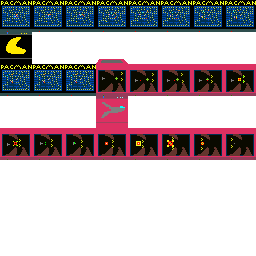
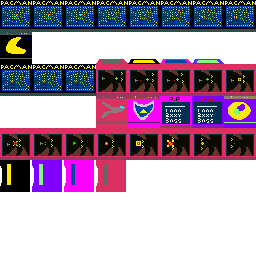
update arcade + trash

Changed region(s): [[0.5, 0.375, 1.0, 0.5], [0.0, 0.625, 0.5, 0.75], [0.5, 0.2188, 0.875, 0.25]]

diff --git a/tilesets/allcreatureswelcome_neon.tsx b/tilesets/allcreatureswelcome_neon.tsx
@@ -1,4 +1,16 @@
 <?xml version="1.0" encoding="UTF-8"?>
-<tileset version="1.4" tiledversion="1.4.3" name="allcreatureswelcome_neon" tilewidth="32" tileheight="32" tilecount="4" columns="2">
+<tileset version="1.4" tiledversion="1.4.2" name="allcreatureswelcome_neon" tilewidth="32" tileheight="32" tilecount="4" columns="2">
  <image source="../oc-tiles/allcreatureswelcome_neon.png" width="64" height="64"/>
+ <tile id="0">
+  <animation>
+   <frame tileid="0" duration="800"/>
+   <frame tileid="2" duration="800"/>
+  </animation>
+ </tile>
+ <tile id="1">
+  <animation>
+   <frame tileid="1" duration="800"/>
+   <frame tileid="3" duration="800"/>
+  </animation>
+ </tile>
 </tileset>

diff --git a/tilesets/garbage-bag.tsx b/tilesets/garbage-bag.tsx
@@ -1,0 +1,4 @@
+<?xml version="1.0" encoding="UTF-8"?>
+<tileset version="1.4" tiledversion="1.4.2" name="garbage-bag" tilewidth="32" tileheight="32" tilecount="1" columns="1">
+ <image source="../oc-tiles/garbage-bag.png" width="32" height="32"/>
+</tileset>

diff --git a/tilesets/arcade3.tsx b/tilesets/arcade3.tsx
@@ -1,0 +1,4 @@
+<?xml version="1.0" encoding="UTF-8"?>
+<tileset version="1.4" tiledversion="1.4.2" name="arcade3" tilewidth="32" tileheight="32" tilecount="64" columns="8">
+ <image source="../oc-tiles/arcade3.png" width="256" height="256"/>
+</tileset>

diff --git a/tilesets/arcade4.tsx b/tilesets/arcade4.tsx
@@ -1,0 +1,4 @@
+<?xml version="1.0" encoding="UTF-8"?>
+<tileset version="1.4" tiledversion="1.4.2" name="arcade4" tilewidth="32" tileheight="32" tilecount="64" columns="8">
+ <image source="../oc-tiles/arcade4.png" width="256" height="256"/>
+</tileset>

diff --git a/tilesets/arcade5.tsx b/tilesets/arcade5.tsx
@@ -1,0 +1,4 @@
+<?xml version="1.0" encoding="UTF-8"?>
+<tileset version="1.4" tiledversion="1.4.2" name="arcade5" tilewidth="32" tileheight="32" tilecount="64" columns="8">
+ <image source="../oc-tiles/arcade5.png" width="256" height="256"/>
+</tileset>

diff --git a/tilesets/trash3x3.tsx b/tilesets/trash3x3.tsx
@@ -1,0 +1,4 @@
+<?xml version="1.0" encoding="UTF-8"?>
+<tileset version="1.4" tiledversion="1.4.2" name="trash3x3" tilewidth="32" tileheight="32" tilecount="9" columns="3">
+ <image source="../oc-tiles/trash3x3.png" width="96" height="96"/>
+</tileset>
